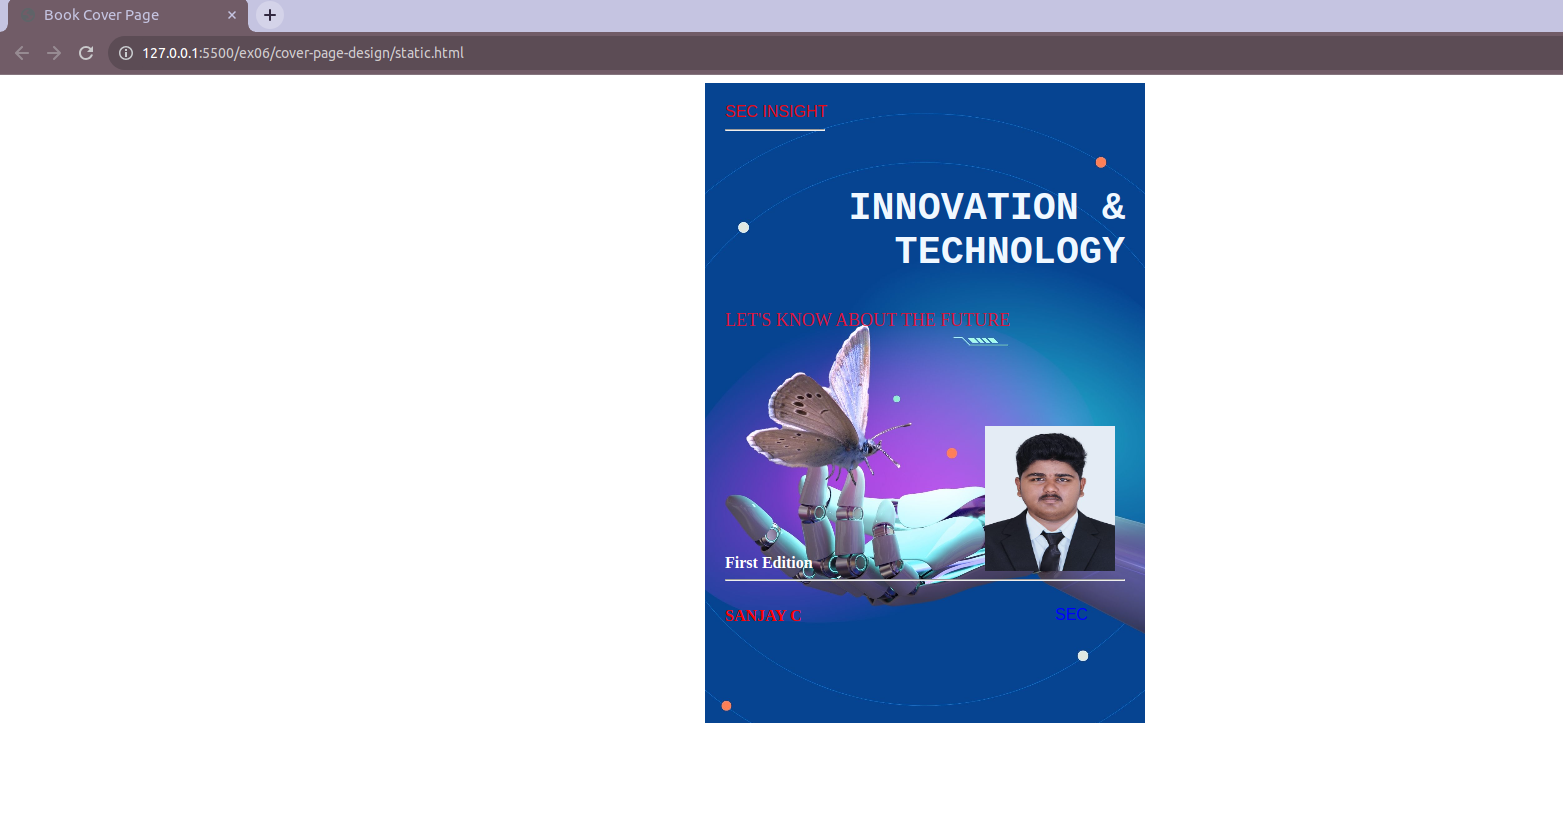
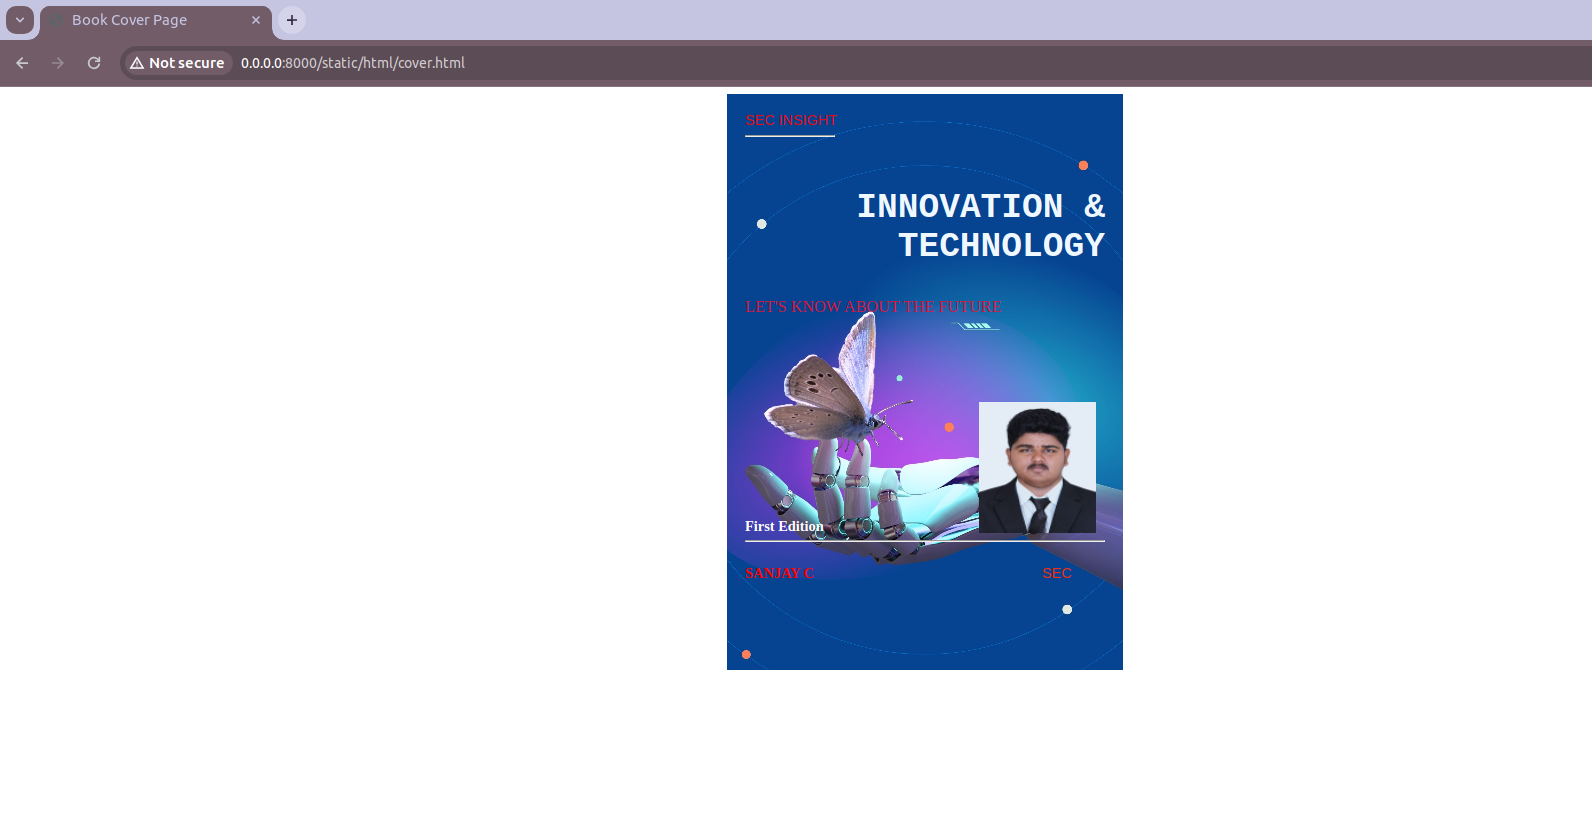
success

Changed region(s): [[0.0, 0.0, 1.0, 0.8896]]

diff --git a/README.md b/README.md
@@ -65,7 +65,7 @@ Execute the code
             
         }
         .pub{
-            color:blue;
+            color:rgb(240, 47, 13);
             font-size: medium;
             position: relative;
             top:155px;
